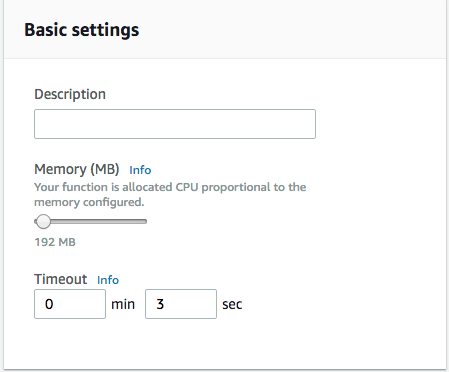
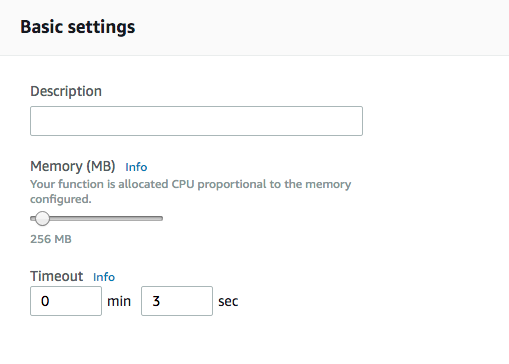
Update doc

diff --git a/docs/index.html b/docs/index.html
@@ -2391,7 +2391,7 @@ and class name. No handle)</p>
 </div>
 </div>
 <div class="paragraph">
-<p>Ensure you set memory to 192MB minimum. Or else you will get memory out of exception</p>
+<p>Ensure you set memory to 256MB minimum. Or else you will get memory out of exception</p>
 </div>
 </li>
 <li>
